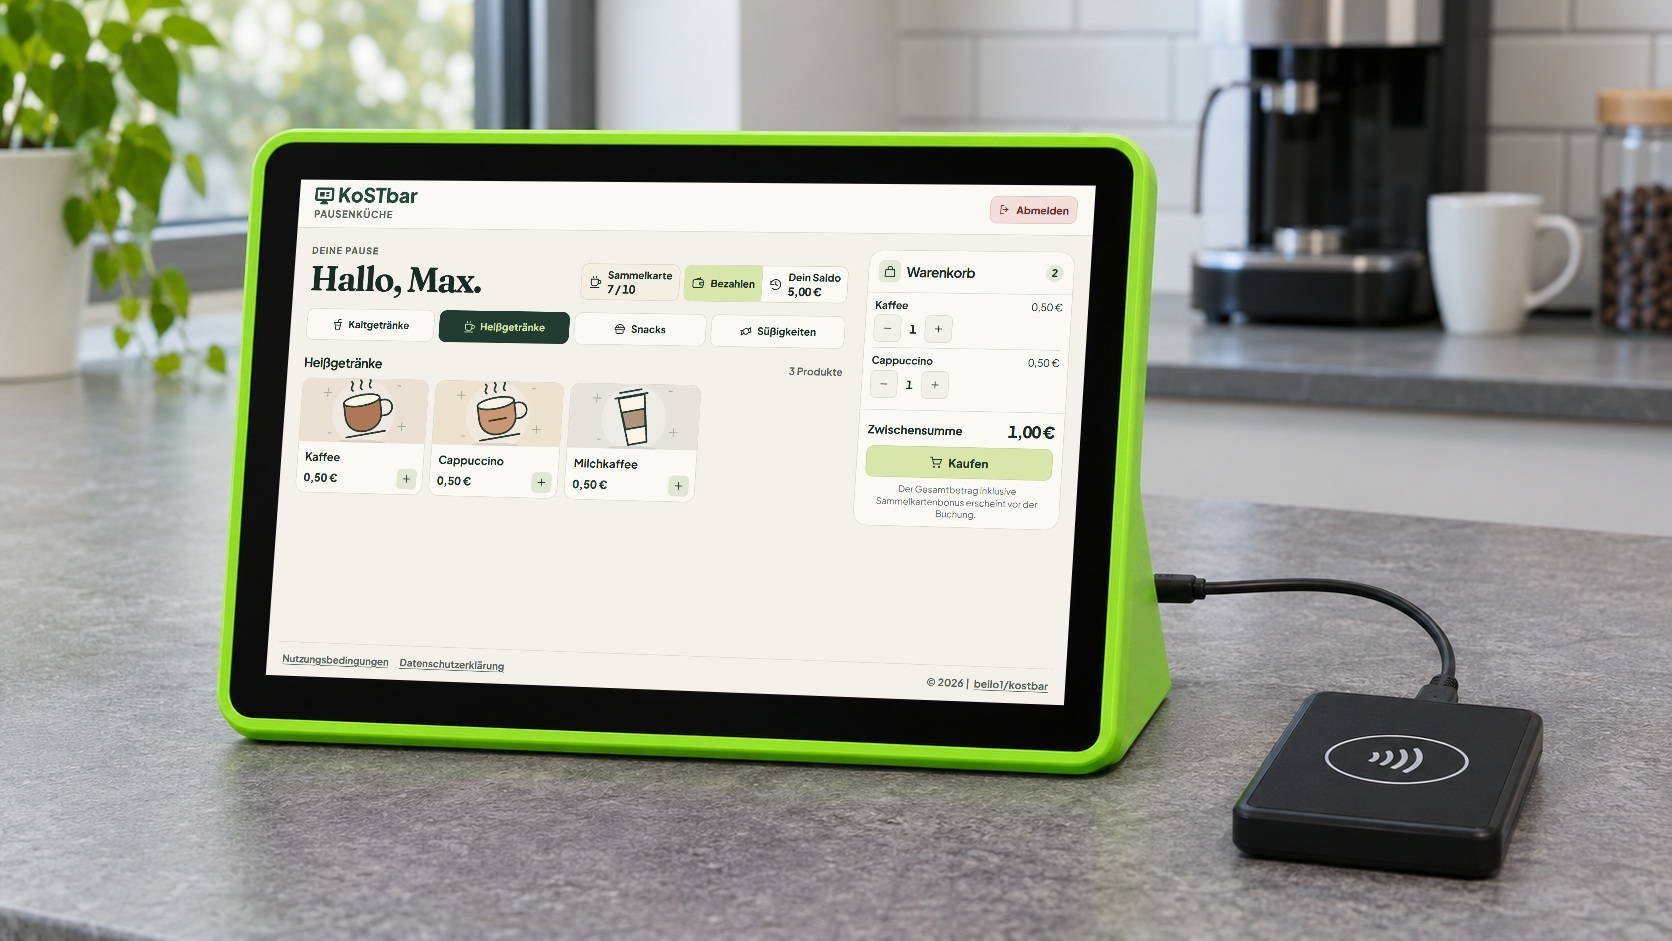
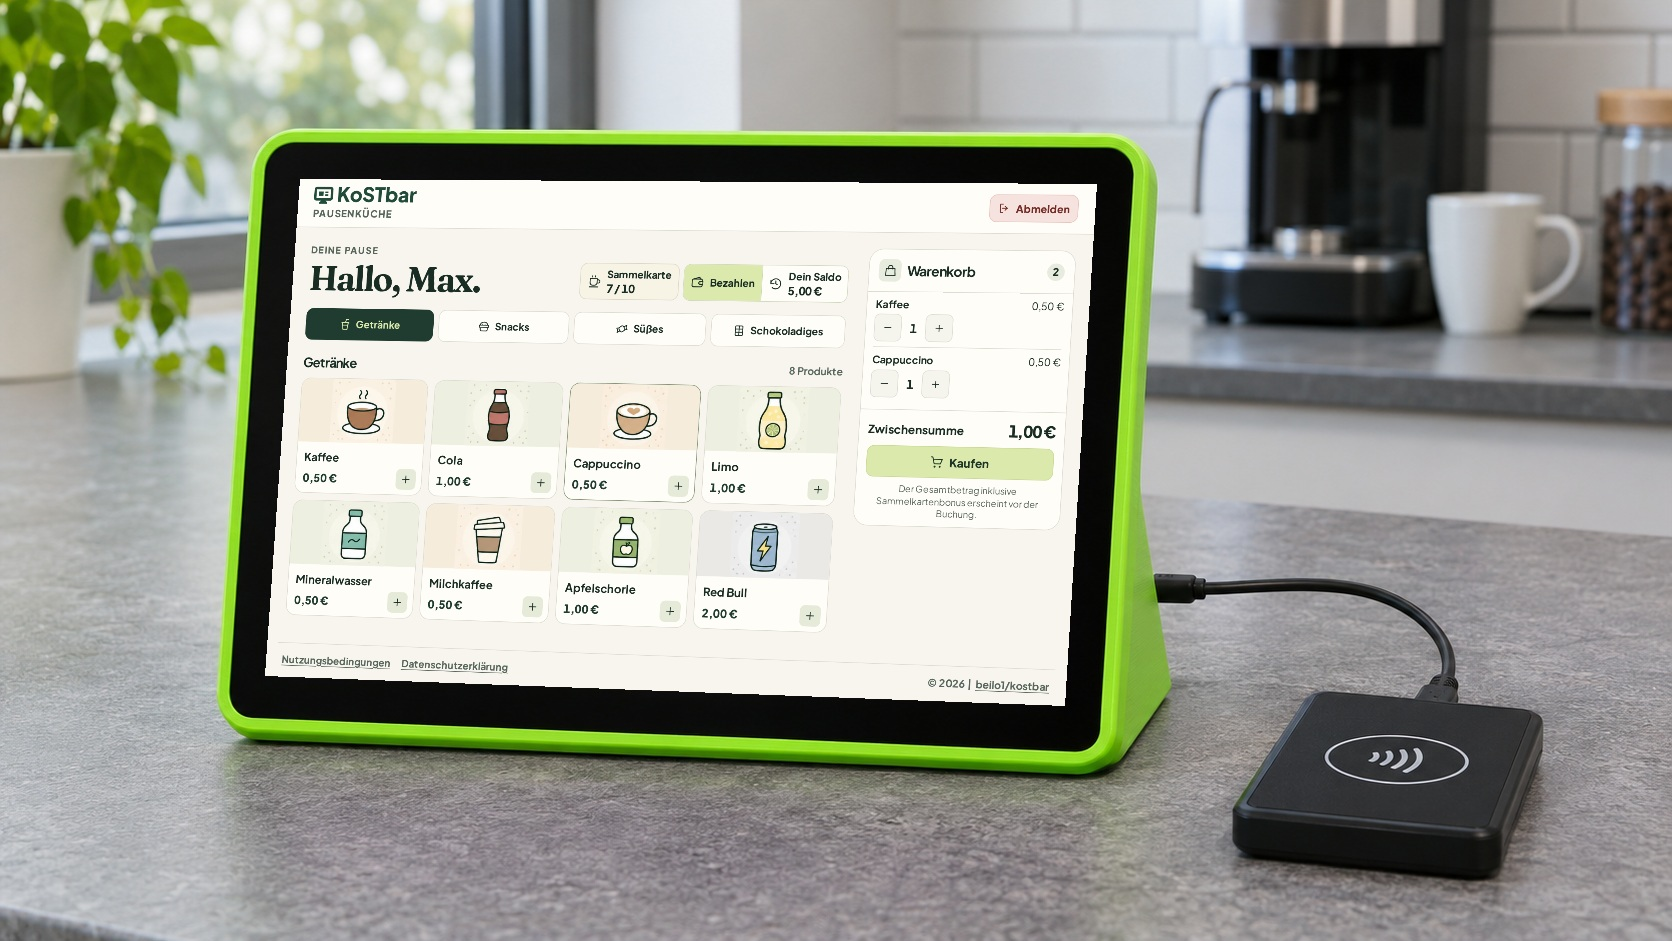
Refresh KoSTbar RC3 README screenshots

diff --git a/README.md b/README.md
@@ -2,7 +2,7 @@
 
 KoSTbar ist eine selbst gehostete Selbstbedienungskasse für den Pausenshop. Am Touchterminal melden sich Nutzer mit NFC-Karte oder PIN an, wählen Produkte und buchen den Einkauf auf ihr Kassenkonto. Das Kassen-Team verwaltet Sortiment, Zahlungen und Auswertungen im Browser.
 
-![KoSTbar-Terminal Pausenküche mit Begrüßung „Hallo, Max“, Sammelkarte, Bezahlen, Saldo und Warenkorb](docs/images/frontend.png)
+![KoSTbar-Terminal mit Begrüßung „Hallo, Max“, Getränkesortiment mit Cola- und Limo-Symbolen sowie Sammelkarte und Warenkorb](docs/images/frontend.png)
 
 ## Funktionen
 
@@ -14,7 +14,7 @@ KoSTbar ist eine selbst gehostete Selbstbedienungskasse für den Pausenshop. Am 
 
 ### Terminal vor der Anmeldung
 
-![Startseite des KoSTbar-Terminals Pausenküche mit Kartenanmeldung und PIN-Option](docs/images/terminal-start.png)
+![KoSTbar-Startseite mit NFC-Logo, Pfeil zum Kartenleser rechts und PIN-Anmeldung](docs/images/terminal-start.png)
 
 ### Sammelkarte am Terminal
 
@@ -24,13 +24,13 @@ KoSTbar ist eine selbst gehostete Selbstbedienungskasse für den Pausenshop. Am 
 
 #### Kassenbuch
 
-![Kassenbuch der Pausenküche mit Käufen und Barzahlungen von Max Berger, Nora Winter und Theo Sommer](docs/images/backend.png)
+![Kassenbuch mit Käufen, Barzahlungen und einer verknüpften Stornobuchung für fiktive Konten](docs/images/backend.png)
 
 #### Benutzerverwaltung
 
 ![Benutzerverwaltung für Max Berger, Nora Winter und Theo Sommer mit Salden, Sammelkarten und Kontoaktionen](docs/images/benutzerverwaltung.png)
 
-Die Screenshots zeigen fiktive Beispieldaten. Die [Bedienungsanleitung](docs/BETRIEB.md#nutzungsbedingungen-und-abnahme) beschreibt die Benutzerliste, den Storno-Filter und den Dialog **Projekt und Lizenz**.
+Die Screenshots zeigen KoSTbar 40.1.0-rc.3 mit fiktiven Beispieldaten. Die [Bedienungsanleitung](docs/BETRIEB.md#nutzungsbedingungen-und-abnahme) beschreibt die Benutzerliste, den Storno-Filter und den Dialog **Projekt und Lizenz**.
 
 ## Hardware
 
@@ -46,11 +46,11 @@ NAS, Terminals und der Admin-Rechner benötigen Netzwerkzugang, DNS und eine ver
 
 ![Fotorealistische Visualisierung des KoSTbar-Terminals Pausenküche mit limettengrünem 3D-Druck-Gehäuse und USB-NFC-Leser](docs/images/terminal-render.jpg)
 
-*Visualisierung des 3D-gedruckten Terminalgehäuses mit der KoSTbar-Produktansicht.*
+*Visualisierung des 3D-gedruckten Terminalgehäuses mit der Getränkeansicht aus 40.1.0-rc.3.*
 
 ## Installation
 
-Für eine bestehende Installation führt [Update auf v40.1.0-rc.3](docs/UPDATE-RC3.md) vom Patch über Sicherung und App-Wechsel bis zur Abnahme und Einrichtung des Saldenexports. Für eine Neuinstallation gelten die folgenden Schritte.
+Für eine bestehende Installation beschreibt [Update auf v40.1.0-rc.3](docs/UPDATE-RC3.md) Sicherung, App-Wechsel, Abnahme und Saldenexport. Für eine Neuinstallation gelten die folgenden Schritte.
 
 | | QNAP | Synology |
 | --- | --- | --- |
@@ -60,11 +60,11 @@ Für eine bestehende Installation führt [Update auf v40.1.0-rc.3](docs/UPDATE-R
 
 ### Neuinstallation
 
-Verwende den Quellstand, zu dem diese Anleitung gehört. Für einen noch nicht gemergten Kandidaten den [Patch auf dem RC-Branch übernehmen](docs/UPDATE-RC3.md#1-änderungen-auf-dem-rc-branch-übernehmen) oder den veröffentlichten Refactoring-Branch auschecken. Wenn der Kandidat bereits in `main` gemergt ist, kannst du den entsprechenden Commit aus dem öffentlichen Repo verwenden. Vor dem Build den erwarteten Wert `40.1.0-rc.3` im Versionslabel des Dockerfiles und den ausgecheckten Commit prüfen.
+Für den Release-Kandidaten den Branch `refactor/kostbar-backlog` auschecken. Vor dem Build die Version `40.1.0-rc.3` im Dockerfile prüfen.
 
 1. Das [gemeinsame App-Image bauen](#app-image-bereitstellen).
 2. Nach der passenden NAS-Anleitung eine neue Konfiguration erzeugen. Der Beispiel-Projektname für Docker Compose ist `kostbar`. Bei einer zusätzlichen Instanz einen eigenen Projektnamen sowie passende Bind-Adressen, Ports und Proxy-Ziele verwenden.
-3. Den Verkaufspunkt koppeln und die [Erstabnahme](docs/BETRIEB.md#erstabnahme) durchführen. `schema-status` zeigt die Versionen **1 bis 7**, beginnend mit `v35_baseline`.
+3. Den Verkaufspunkt koppeln und die [Erstabnahme](docs/BETRIEB.md#erstabnahme) durchführen. `schema-status` zeigt die Versionen **1 bis 8**, beginnend mit `v35_baseline` und endend mit `catalog_categories_and_order`.
 4. Vor der Freigabe die Datenschutzerklärung an die tatsächliche Umgebung anpassen und veröffentlichen. [`privacy.md`](privacy.md) ist die Ausgangsvorlage. Die [Betriebsanleitung](docs/BETRIEB.md) erläutert die Bearbeitung in der Verwaltung.
 
 Weitere Terminals legst du als Super-Admin unter **Verkauf → Verkaufspunkte** an. Lade das jeweilige private Geräteprofil herunter, richte den Pi ein und bestätige dessen Kopplungscode. Produkte weist du unter **Sortiment** zu.
@@ -91,7 +91,7 @@ Alternativ die Image-Referenz einer Registry als `KOSTBAR_APP_IMAGE` in der jewe
 
 Für den Wechsel von RC2 zu RC3 stehen Vorgehen, Abnahme und Rückweg in der [Update-Anleitung](docs/UPDATE-RC3.md). Für ältere Installationen dokumentiert die [RC2-Anleitung](docs/UPDATE-v40.1.md) den vorherigen NAS- und Pi-Wechsel.
 
-Der Kandidat ergänzt Migration 7 (`manual_account_setup`) für manuell angelegte Konten. Für die Rückkehr zu einer App-Version mit Schema 6 wird der Datenbankstand vor dieser Migration benötigt. [NAS-Rückweg](docs/UPDATE-v40.1.md#nas-rückweg)
+RC3 übernimmt Kategorien und Sortierreihenfolge mit Migration 8 (`catalog_categories_and_order`). Der Rückweg zu RC2 erfordert eine Sicherung vor dieser Migration. [NAS-Rückweg](docs/UPDATE-RC3.md#5-rückweg)
 
 ## Entwicklung und Lizenz
 
